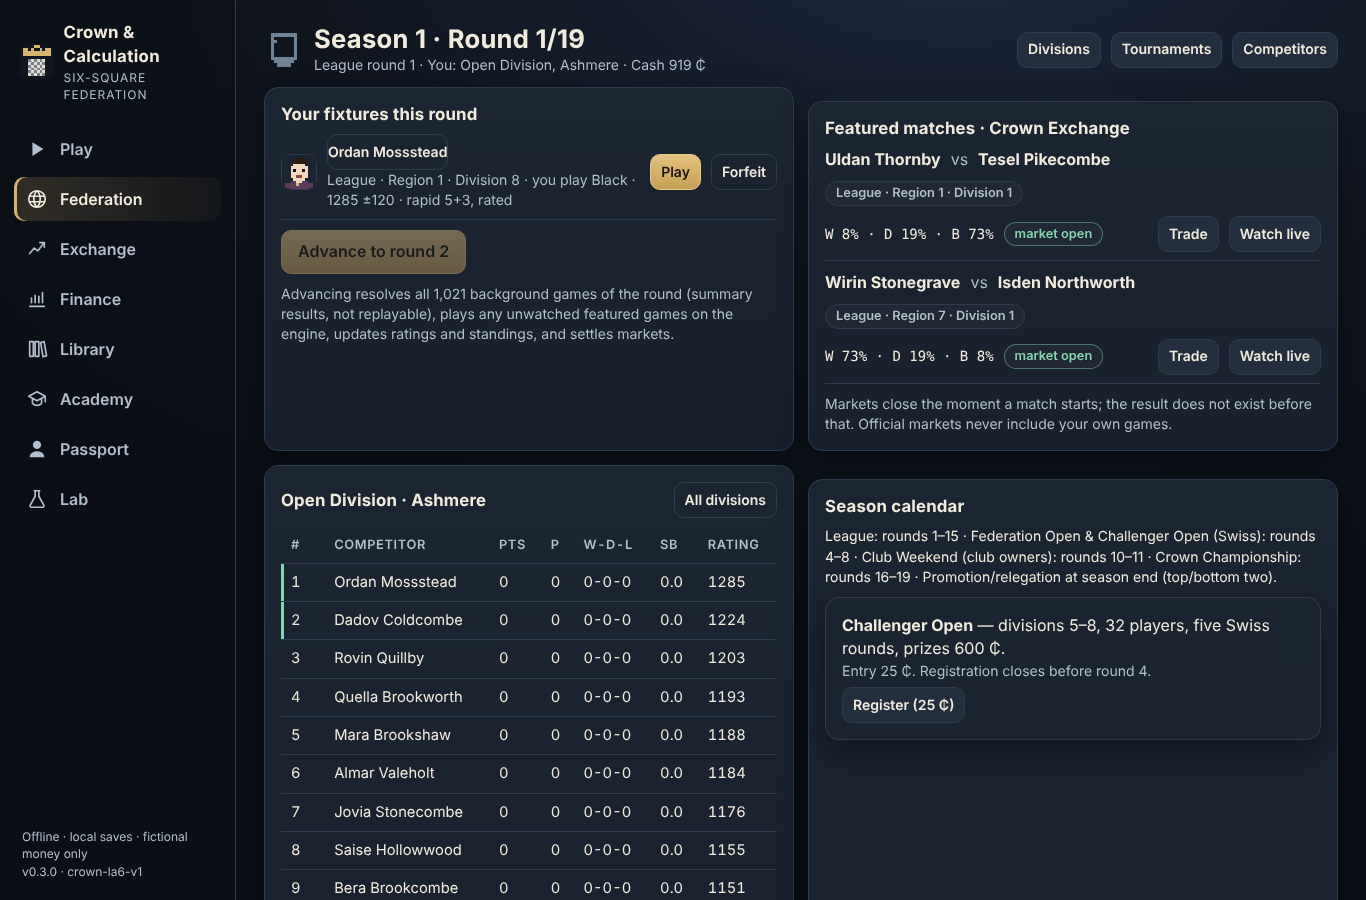
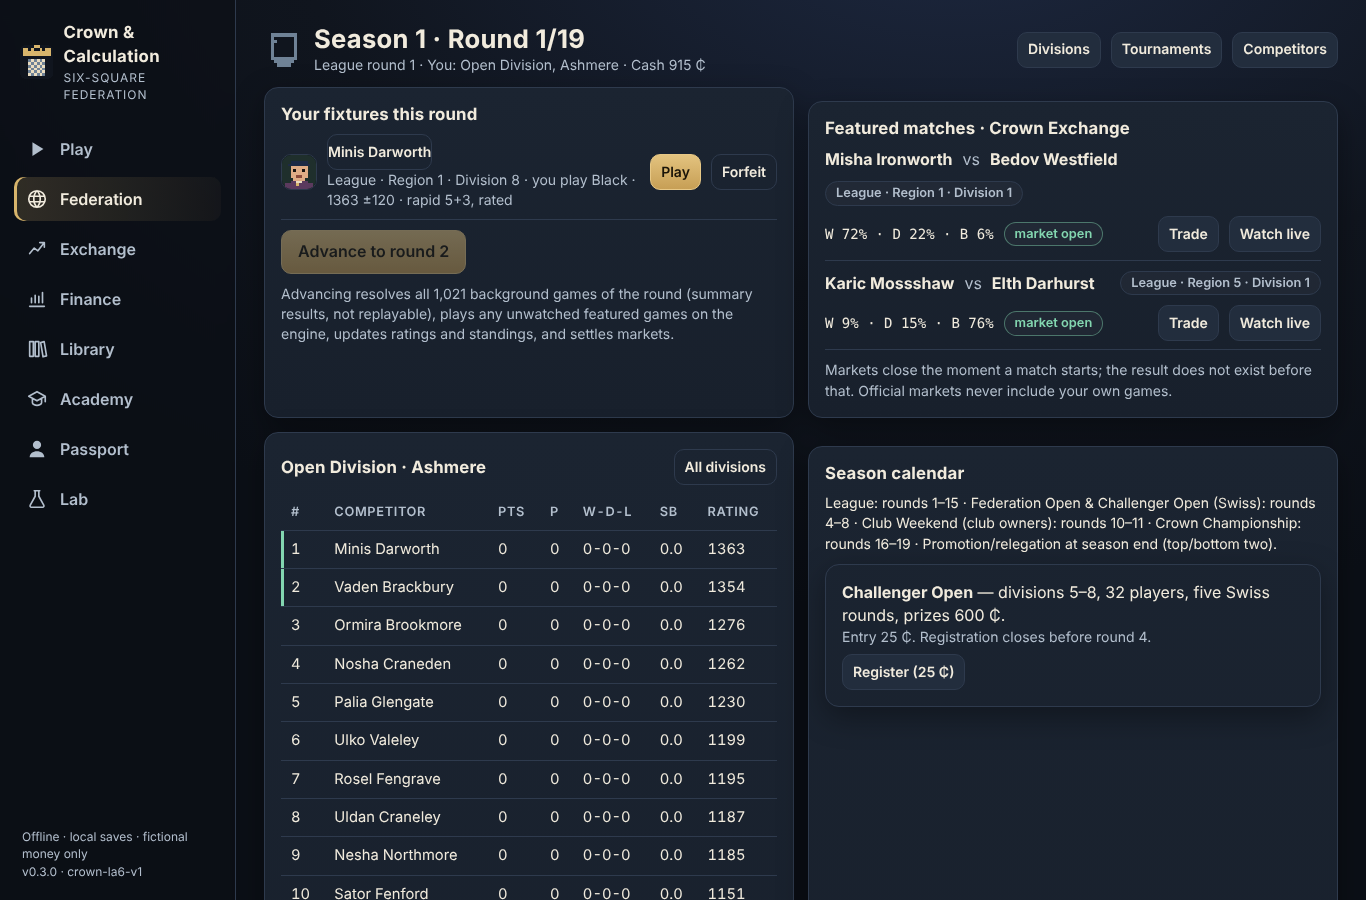
v0.4: list missing season-family markets for saves migrated mid-season (within trading windows), version 0.4.0, decision log + save format v4, M5 roadmap
Claude-Session: https://claude.ai/code/session_01BCRgncvcbDL8z48WLksUgi

diff --git a/src/app/federation.ts b/src/app/federation.ts
@@ -139,6 +139,23 @@ export class FederationService {
     return { st, post: js => this.post(st, js, posted), now: () => this.now(), markets: new Map(), positions: new Map() };
   }
 
+  /** List any season-family market missing for the current season while its trading window is open
+   *  (saves migrated from v0.3.0 mid-season). Idempotent. */
+  async ensureSeasonMarkets(): Promise<number> {
+    if (!this.state) return 0;
+    const S = this.state.world.season;
+    if (['open-winner', 'promo', 'qual', 'season'].every(k => this.state!.markets.has(`mk:${k}:${S}`))) return 0;
+    return this.run(async () => {
+      const st = this.clone();
+      const posted: Journal[] = [];
+      const ops = this.opsOf(st, posted);
+      openSeasonMarkets(ops);
+      if (!ops.markets.size) return 0;
+      await this.commit(st, posted, { markets: [...ops.markets.values()], positions: [...ops.positions.values()] }, { season: st.world.season, round: st.world.round });
+      return ops.markets.size;
+    });
+  }
+
   /** Close family markets whose closing round has started, committed before any game of that round runs. */
   private async closeDueMarkets(): Promise<void> {
     if (!this.state) return;
@@ -862,7 +879,7 @@ export class FederationService {
       plansChanged.push(st.plan);
       const opened = this.openRoundWithMarkets(st, this.ctxOf(st, player), posted);
       st.rounds.set(opened.rec.id, opened.rec);
-      if (res.seasonEnd) openSeasonMarkets(ops);
+      openSeasonMarkets(ops); // new season: lists all families; otherwise only fills gaps within their windows
       this.snapshotFinance(st);
       await this.commit(st, posted, { competitors: true, rounds: [rec, opened.rec], markets: [...opened.markets, ...ops.markets.values()], positions: [...opened.positions, ...ops.positions.values()], plans: plansChanged, contracts: changedContracts }, expect);
       return res;

diff --git a/tests/markets.test.ts b/tests/markets.test.ts
@@ -221,3 +221,18 @@ describe('institutions: club levels and sponsorship contracts', () => {
     for (const [a, v] of svc.state!.balances) if (a !== 'mint') expect(v, a).toBeGreaterThanOrEqual(0);
   }, 300_000);
 });
+
+describe('v0.3.0 saves migrated mid-season', () => {
+  it('lists the missing season families only while their trading windows are open', async () => {
+    const svc = await make();
+    await svc.create(2, 5150);
+    // simulate a v0.3.0 world: no family markets (journals of the removed listings remain, so funding of the new
+    // listings is verified end-to-end by e2e/m4-journey.mjs on a real v0.3.0 save, not here)
+    for (const id of [...svc.state!.markets.keys()]) if (!id.startsWith('mk:1:')) svc.state!.markets.delete(id);
+    expect(svc.state!.markets.has('mk:open-winner:1')).toBe(false);
+    const n = await svc.ensureSeasonMarkets();
+    expect(n).toBe(4);
+    expect(await svc.ensureSeasonMarkets()).toBe(0); // idempotent
+    expect([...svc.state!.balances.values()].reduce((a, b) => a + b, 0)).toBe(0);
+  }, 60_000);
+});

diff --git a/src/app/services.ts b/src/app/services.ts
@@ -11,7 +11,7 @@ import type { GameRecord } from '../games/types';
 import type { RatingEvent } from '../ratings/ledger';
 import { FederationService } from './federation';
 
-export const APP_VERSION = '0.3.0';
+export const APP_VERSION = '0.4.0';
 
 type Listener = () => void;
 
@@ -50,6 +50,7 @@ export class AppServices {
     s.fed.onChange = () => s.notify();
     await s.fed.load();
     if (!s.readOnly) await s.fed.reconcilePlayerGames().catch(e => console.error('federation reconcile', e));
+    if (!s.readOnly) await s.fed.ensureSeasonMarkets().catch(e => console.error('season markets', e));
     // Jobs left "running" by a closed tab are re-queued (their partial work was never committed).
     for (const j of await db.allJobs()) if (j.status === 'running') await db.putJob({ ...j, status: 'queued', updatedAt: new Date().toISOString() });
     return s;

diff --git a/src/app/markets.ts b/src/app/markets.ts
@@ -56,6 +56,7 @@ export function npcBatch(ops: MarketOps, m: Market, role: 'pre' | 'live' | 'roun
 function openFamily(ops: MarketOps, spec: { id: string; kind: MarketKind; title: string; outcomes: string[]; claims?: Market['claims']; model: number[]; closeRound: number; ref: Record<string, string | number> }): Market | null {
   const st = ops.st;
   if (st.markets.has(spec.id)) return null;
+  if (st.world.round >= spec.closeRound) return null; // never list a market whose trading window has already passed
   const b = FAMILY_B[spec.kind];
   if ((st.balances.get('treasury') ?? 0) < subsidyMicro(b, spec.outcomes.length) + 5_000_000_000) return null; // keep a 5,000 ₵ floor for match markets
   const { market, journal } = openGenericMarket({

diff --git a/docs/M5_ROADMAP.md b/docs/M5_ROADMAP.md
@@ -1,0 +1,48 @@
+# M5 roadmap (after v0.4.0 "The Grand Exchange")
+
+Every item names its acceptance evidence. Nothing is "done" because a screen exists.
+
+## 1. Platform verification (blocking for a 1.0)
+
+- Run `Start-Crown.bat` / `Start-Crown.ps1` on a real Windows 10/11 machine (or a Windows CI runner): first-run
+  install/build, port fallback, PowerShell fallback server; record screenshots and logs.
+- Physical iPhone: HTTPS-hosted PWA install, airplane-mode play, storage eviction behaviour, backup export/import
+  through the Files app, touch drag on the 6×6 board, safe areas.
+- Accessibility: screen-reader pass of Play, Exchange, Finance, Spectator; 200% text zoom; focus order audit.
+
+## 2. Engine and personalities
+
+- Continue the engine work documented in docs/M4_ENGINE_STRENGTH.md (whatever it left open), keeping every
+  change behind paired, colour-swapped evidence; re-calibrate the ladder after each accepted change.
+- Full-game styles beyond the opening (where M4 did not validate them): style-specific search terms tuned with
+  the parity harness at two node budgets and 128 pairs; endgame-technician suite measured on conversion rate.
+- Human calibration: an opt-in local study mode that records human results against fixed levels to anchor the
+  internal scale (still offline; nothing leaves the device unless the player exports it).
+
+## 3. Federation
+
+- Player route into the Federation Open (divisions 2–4), regional champions qualifier, and the research's group
+  stage + 8-player knockout championship format as an option (documented deviation in v0.3/v0.4).
+- Rank titles tied to federation results (crown-rank-1), replacing rating bands.
+- Broadcast requests: let the player choose which match is featured before the round opens.
+- Advance preview: list market closures, upkeep, prizes and fixtures before advancing a round.
+
+## 4. Exchange
+
+- Tournament-winner trading during the event (per-round windows) with pre-published suspension rules.
+- Additional bounded conditional families (e.g. Swiss top-four) with explicit state enumeration and solver bounds.
+- Forecast league: separately funded, capped prizes for calibrated forecasting (proper score), never from trading.
+- Exchange visibility and spending limits (player-set), and an option to hide the Exchange entirely.
+
+## 5. Economy and institutions
+
+- More institution decisions: hosting a chosen event format with a budget, a research department, staff.
+- Multi-seed, 20-season economy sweeps with a parameter grid; acceptance: circulating-supply growth < 2%/season
+  after season 5; no single strategy dominates across seeds; the losing strategy recovers within 3 seasons.
+
+## 6. Reliability
+
+- A single prioritised engine job queue across workers (analysis, spectator, assistant) with cancellation.
+- Service-worker update policy that never activates during a match; quota check before migrations; Web Locks
+  fallback.
+- Corrupted-record recovery: per-store validation on load with a recovery-backup export prompt.

diff --git a/docs/DECISION_LOG.md b/docs/DECISION_LOG.md
@@ -32,6 +32,15 @@ entries below record implementation decisions and conflicts resolved during M0/M
 | I25 | Training Hall gives only unrated sparring against the next opponent's exact profile. | Directive §9: functional purchases must not buy rating points or rated-game advantages; practice is legitimate preparation. |
 | I26 | Spectator shows each side's actual engine thinking time instead of a game clock. | Featured games are node-limited (deterministic, crash-replayable); a running game clock would be decorative. |
 | I27 | No tournament-winner markets and no in-match trading in M3. | Directive §6/§7 make both conditional on correct settlement and legitimate timing; designs are in docs/M4_PLAN.md. |
+| I28 | One generalized LMSR (n states, subset claims, payout vectors) for every market family; no separate pricing engines. | Research doc 09: one ledger per event cluster, coherent claim prices, a single solvency proof. |
+| I29 | Market families are listed on four distinct regions (never the player's), and overlapping event clusters are never open at the same time (champion market closes before the final-four market opens). | Doc 09 forbids duplicated deterministic payoffs across concurrently listed contracts. |
+| I30 | Joint champions settle by a ½/½ payout vector on the 8-state final-four model instead of a 12-state model. | Keeps the researched 8-state reference; a split vector lies in the simplex, so the funded bound still holds (tested). |
+| I31 | In-play trading only when the player watches a featured match live; each move is computed after the previous trading window and committed with its NPC reactions. Background matches close at the first move. | Doc 09 live-move sequence; no precomputed outcome while trading. |
+| I32 | Censored featured games (400-ply limit) cancel their market on the published vector instead of settling a draw. | Reconciliation finding; a censored game is not a result. |
+| I33 | Sandbox markets open at a funded rating prior and cancel at that same prior; the player may only back themselves. | Removes the forced-void and deliberate-loss exploits (doc 09 initial-prior bound b·ln(1/min p0)). |
+| I34 | Sponsorship stipends are priced at ≥ 30% of the competitor's average season prize earnings (and ≥ 10% of their division pool), repriced at renewal; share 25%. | First sim showed contracts on top players were a passive-profit machine; now profit requires outperforming history. |
+| I35 | Club upgrades escrow half their cost (refundable, counted in book value) and spend half. | Upgrades must be real choices with costs; book value never counts spent money. |
+| I36 | Theme system: Obsidian & Crimson default, Midnight & Gold, Ivory & Slate; independent board palettes; preferences in localStorage (per-device convenience, not game state). | Directive Part VI; preferences are not career data and need no migration. |
 
 ## Conflicts noted
 

diff --git a/docs/SAVE_FORMAT.md b/docs/SAVE_FORMAT.md
@@ -1,7 +1,7 @@
 # Save, export and import formats
 
 All data lives in the browser's IndexedDB database `crown-calculation` (schema `crown-save-1`,
-IndexedDB version **3** since v0.3.0) on the device. Nothing is sent anywhere.
+IndexedDB version **4** since v0.4.0) on the device. Nothing is sent anywhere.
 
 ## Object stores
 
@@ -23,7 +23,11 @@ IndexedDB version **3** since v0.3.0) on the device. Nothing is sent anywhere.
 | `accounts` | `account` | Account balances (must equal the journal replay). |
 | `markets`, `positions` | `id` | Exchange markets (LMSR state, history, status) and holdings. |
 | `assets` | `id` | Owned assets (acquired season, upkeep, suspension). |
-| `finance` | `key` | Net-worth history and player extras (watchlist, sponsors paid, vouchers, paper forecasts). |
+| `finance` | `key` | Net-worth history and player extras (watchlist, sponsors paid, vouchers, paper forecasts with price/model snapshots, sandbox refill marker). |
+| `liveGames` | `id` = fixture id | v0.4.0: in-play featured game — moves so far, seed, status, published price/model points. |
+| `contracts` | `id` | v0.4.0: sponsorship contracts (stipend, share, paid, earned, status). |
+
+Markets gained optional fields in v0.4.0 (`kind`, `outcomes`, `claims`, `model`, `payout`, `rules`, `live`, `q0`, `cancelVector`, `ref`); v0.3.0 match markets without them are read as W/D/B categorical markets, so no record is rewritten. Display preferences (theme, board) live in localStorage, not IndexedDB.
 
 Every federation/economy command writes all changed records in **one** transaction guarded by the
 committed (season, round) cursor (docs/V3_FEDERATION.md §4).
@@ -70,9 +74,10 @@ is the checksummed rules content (`id, variantId, rulesVersion, initialFen, setu
 | 1 | v0.1.0 | Initial schema |
 | 2 | v0.2.0 | Adds `attempts`, `trainingRuns`, `bookmarks` (additive) |
 | 3 | v0.3.0 | Adds the 11 federation/economy stores (additive) |
+| 4 | v0.4.0 | Adds `liveGames` (in-play featured games, persisted after every move) and `contracts` (sponsorship contracts) (additive) |
 
 Both upgrades are **additive**: no existing record is read, rewritten or deleted, so a v0.2.0 career opens
-unchanged in v0.3.0 (verified: `tests/storage.test.ts` v1→v2 and v2→v3, and in Chromium by
+unchanged in v0.3.0 (verified: `tests/storage.test.ts` v1→v2, v2→v3 and v3→v4, and in Chromium by
 `e2e/federation.mjs`, which plays a rated game in the real v0.2.0 build, then serves the v0.3.0 build on
 the same origin and checks the games, rating events and rating are identical). The federation is empty
 until the player founds it. Future data-transforming migrations must follow research doc 12: export a
